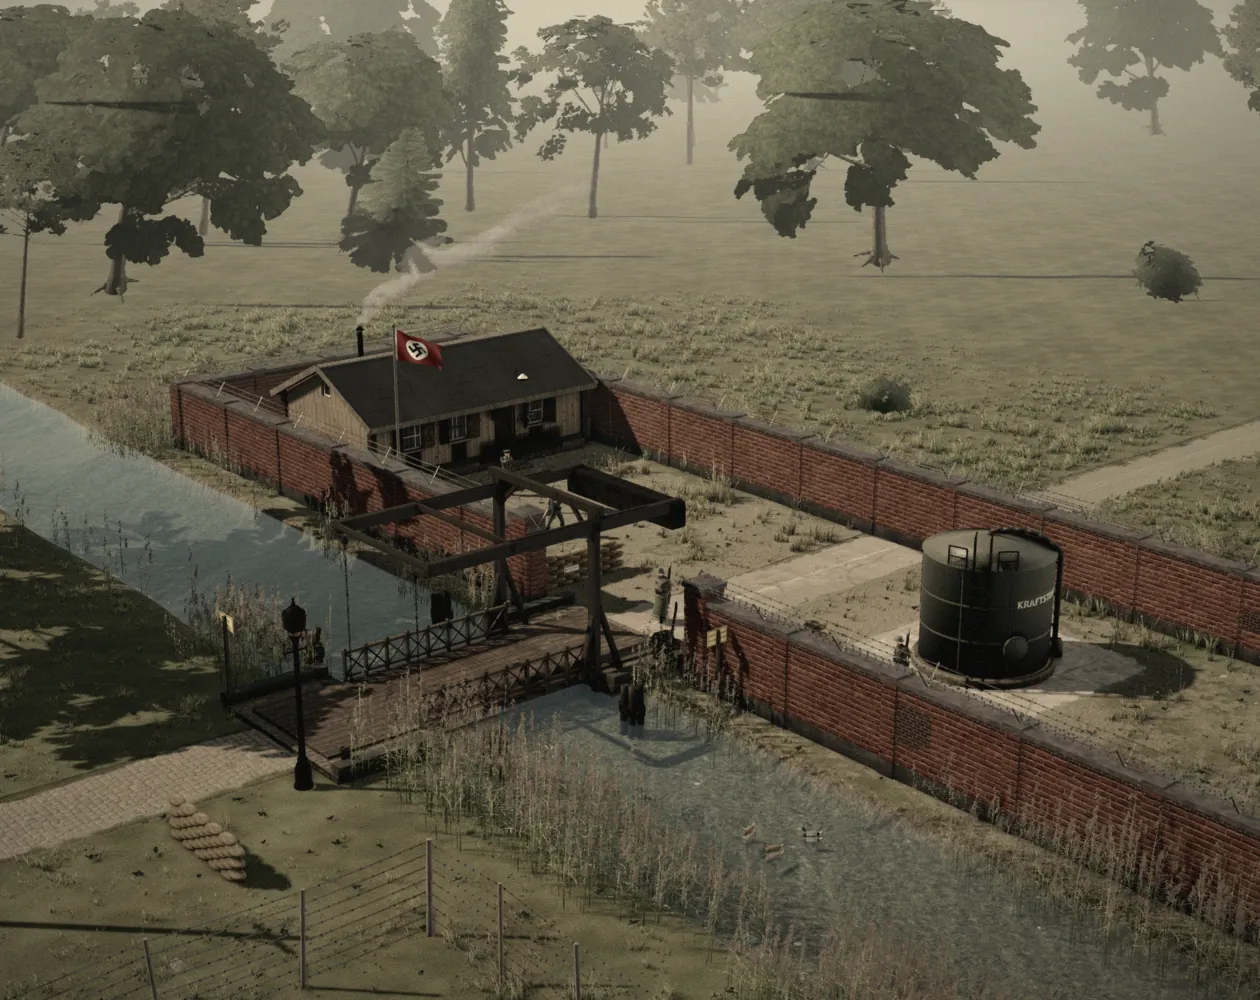
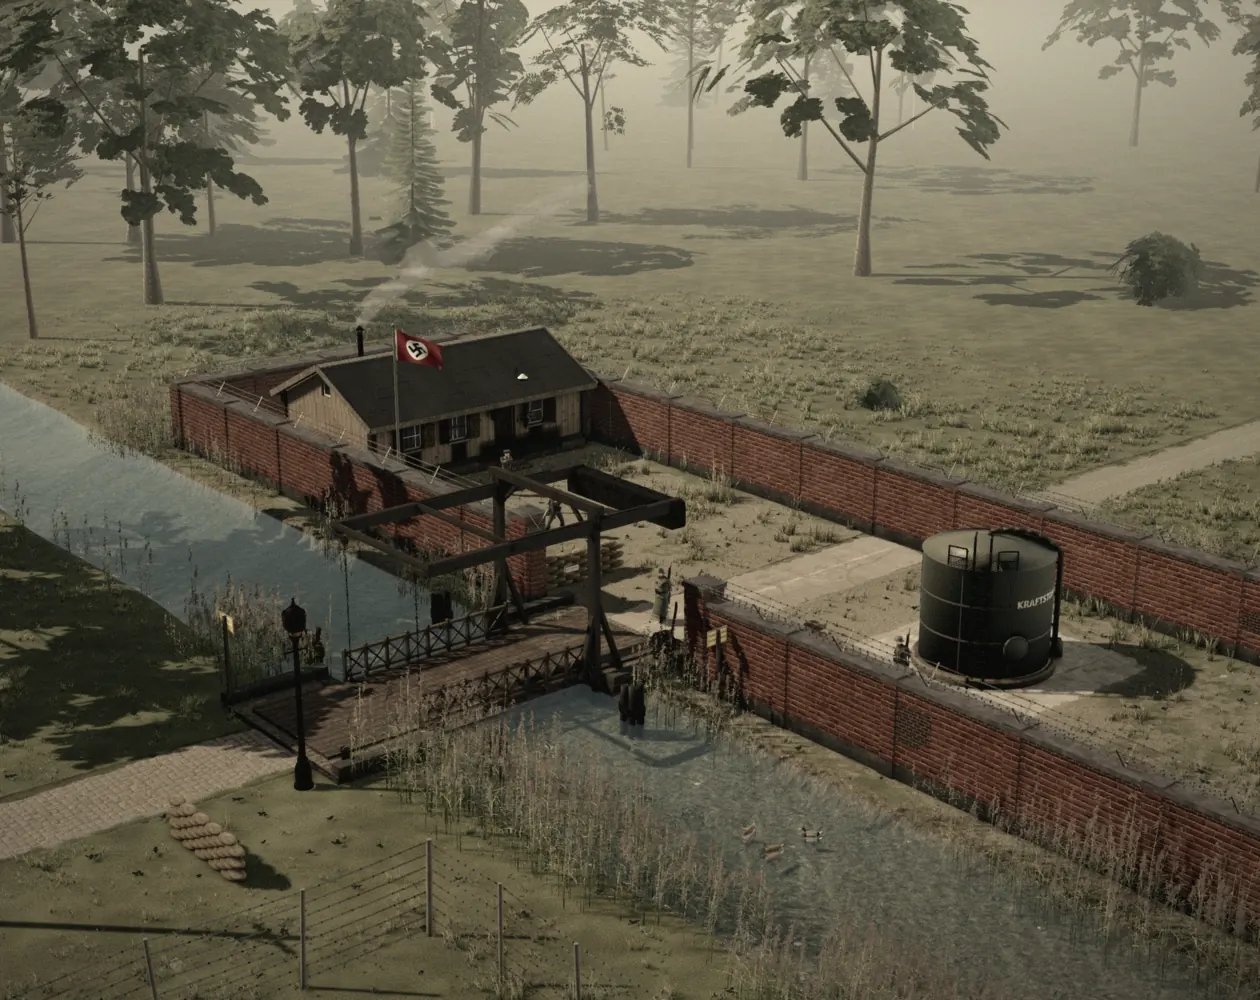
Sync from dev master 8b807b227: docs: PROGRESS entry for the M00 lorry slab fix (fix/lorry-slab)
Claude-Session: https://claude.ai/code/session_01VLerBwZuqghUz5tSfkGuoS

diff --git a/src/art/vehicle-library.js b/src/art/vehicle-library.js
@@ -329,13 +329,31 @@ function buildInstance(model, swap, meta) {
 }
 
 /**
+ * Every attribute of `geo` as a plain Float32 one, in place (dequantised: the library's GLBs are KHR_mesh_quantization —
+ * Uint16 positions read through the node's scale, Int8 / Uint8 normalised normals and colours, often interleaved).
+ * A matrix baked into a quantized attribute is written back into its integer array: metres truncated to whole units and
+ * negatives wrapped to 65535 — the 65 km slab M0's merged Opel Blitz drew over the canal (fix/lorry-slab).
+ * @param {THREE.BufferGeometry} geo @returns {THREE.BufferGeometry} geo
+ */
+export function floatAttributes(geo) {
+  for (const [name, a] of Object.entries(geo.attributes)) {
+    if (a.array instanceof Float32Array && !a.normalized && !a.isInterleavedBufferAttribute) continue;
+    const n = a.count, k = a.itemSize, dst = new Float32Array(n * k);
+    for (let i = 0; i < n; i++) for (let c = 0; c < k; c++) dst[i * k + c] = a.getComponent(i, c);
+    geo.setAttribute(name, new THREE.Float32BufferAttribute(dst, k));
+  }
+  return geo;
+}
+
+/**
  * Draw-call cut for a parked model (static-vehicles.js `vehicleArtMerge`): in every LOD of the instance, the opaque rigid
  * meshes that share a material (and shadow flags) become ONE mesh in the LOD's frame, at the pose they have now. Only for
  * a model the mission keeps still (no door, hatch or wheel is ever posed afterwards: part nodes stay but their meshes move
  * into the merged one); skinned / transparent / instanced ones stay as they are. Pixels unchanged (same triangles, materials, order within a material).
+ * The copies are dequantised first (floatAttributes): the node transform baked into them carries the GLB's dequantisation scale.
  * @returns {THREE.Mesh[]} the merged meshes (their geometry is the caller's to dispose)
  */
-function mergeParked(inst) {
+export function mergeParked(inst) {
   const out = [];
   for (const lod of inst.lods.values()) {
     lod.updateMatrixWorld(true);
@@ -350,7 +368,7 @@ function mergeParked(inst) {
     for (const list of groups.values()) {
       if (list.length < 2) continue;
       const idx = list.every((o) => o.geometry.index), geos = list.map((o) => {
-        const g = (idx ? o.geometry : o.geometry.index ? o.geometry.toNonIndexed() : o.geometry).clone();
+        const g = floatAttributes((idx ? o.geometry : o.geometry.index ? o.geometry.toNonIndexed() : o.geometry).clone());
         return g.applyMatrix4(new THREE.Matrix4().multiplyMatrices(inv, o.matrixWorld));
       });
       const geo = mergeGeometries(geos, false);

diff --git a/docs/PROGRESS.md b/docs/PROGRESS.md
@@ -1108,3 +1108,12 @@ Claude-Session: https://claude.ai/code/session_01J8AeHrBrbUrVcpvL5ZEEwr
 - Tests: new tests/unit/tree-lod (every species and look at both levels is a 3D tree: a trunk or stems, sprays at ≥ 3 heights and ≥ 4 of 6 azimuth sectors; packing round trip; the cull; no impostor code left) and GPU tests/trees-3d (M20, M16, M1 forest edges at the widest zoom: no impostor mesh or material, no instanced draw of ≤ 2 triangles a copy, copies drawn with 3D shadows); pines updated (an instanced stand matches the unique meshes: coverage ×1.00, brightness ×1.11, hue); edges-void bounds the apron ground (≤ 16 draws) and its forest (≤ 40) apart. Unit 2776/0 after merging master ef1b44e0c (and 312963bd5 before it). GPU on the merged branch: render-budget (21), trees-3d, pines, vegetation, edges-void M16, touch-game-pixel7; before that merge also p3-wind, veg-water (2), loading, edges-void M20 / M01 / M00, terrain, render-frames, smoke-missions, memory-cycle. m01-tree-detail fails as on master (the walk-under clearance check on M1's unique trees, 21382 vs 21412 tris: pre-existing, unique trees untouched — treegen's fingerprint is identical).
 - Found, not changed: (1) vegetation.js update() looks for the sun inside the vegetation's own group (the ground), never finds it, so every tree's `uSunV` stays (0, 0, 0) and `uSunI` 3: the leaf translucency's sun terms and the needle shader's 12 cm shadow-lookup offset get normalize(0); fixing it changes every tree's look, left for an art pass. (2) M00: the static lorry `lorry_paddock` (opel_blitz_cargo_grey, its merged lod0 / lod2 meshes) has vertices at 65535 — a flat brown slab over the canal and the compound, in play and in the still bake; on master since at least db856afba.
 - Media: commandos-shots/trees3d/trees-before-after.jpg (game camera at the forest edges of M16, M02 and M11's desert at default zoom and the widest; loading-still crops of M16, M02, M12's palms; the three menu backdrops); per view <mission>-<view>-z<zoom>-before / -after.png, menu-<theatre>-before / -after.jpg, crops/.
+
+## 2026-11-11 — M00's parked lorry no longer draws a slab (fix/lorry-slab)
+- Merged 71e46e613. The bug (found by the trees-3d agent, on master since d3406cb7c, 2026-11-09): M00's parked Opel Blitz (`lorry_paddock`, opel_blitz_cargo_grey, `vehicleArtMerge`) drew a flat brown slab over the canal and the compound, in play and in the loading-still bake. In the browser on master its meshes spanned x −9,095…64,923 m, z −73,972…47 m.
+- Cause: the parked-model merge (art/vehicle-library.js `mergeParked`: one mesh per material per LOD, the draw-call cut for a model that never moves) cloned each mesh's geometry and baked its node → LOD matrix into it. The library's GLBs are KHR_mesh_quantization: positions are a raw `Uint16Array` (14-bit) read through the node's dequantisation scale (~0.38 mm a unit), normals `Int8` and colours `Uint8` normalised, often interleaved. Baking the scale wrote metre values back into the integer array: truncated to whole units, negatives wrapped to 65535 (the "vertices at 65535"). The GLB files are fine; only the merged runtime meshes were wrong. M00's lorry is the only `vehicleArtMerge` user.
+- Fix: `floatAttributes(geo)` turns every attribute of the copy into plain Float32 (dequantised, de-normalised, de-interleaved) before the matrix is applied. Same triangles, materials and draw count; the merged lorry now sits in its footprint (x 22.8…29.2, z 44.2…47.3).
+- GLB check (every model GLB: 280 vehicles, 1,185 buildings, 90 bridges): no POSITION accessor at its component type's limit (vehicles max 16383, buildings and bridges ≤ 32767), every world extent sane (largest: the Bismarck 251 m, the Maas truss bridge 147 m); every vehicle's accessor and decoded bounds inside its sidecar bbox. No asset needed re-running a size pass (glb_posfilter / glb_meshopt untouched).
+- Tests: new tests/unit/glb-bounds (every model GLB's POSITION accessors off the type limit and a sane extent, vehicles within their sidecar bbox; every vehicle GLB decoded and merged as a parked model: bounds within 1 mm, triangles and materials unchanged, Float32 attributes; `floatAttributes` round trip, the wrap to 65535 reproduced). Fails on master (merged position `Uint16Array`). Unit 2779 passed, 0 failed. GPU render-budget m00: 388 draws, 3.23 M tris, 4.8 ms (unchanged). sim-trace m00 identical vs master (won at 368.15 s, 0 detections).
+- Still: assets/ui/loading/m00.webp rebaked (the trees-3d pass had kept the old one because its bake showed the slab); it now has the 3D trees too.
+- Media: commandos-shots/fixes/m00-lorry-before-after.jpg (the paddock at the game camera, zoom 1, master and branch).
